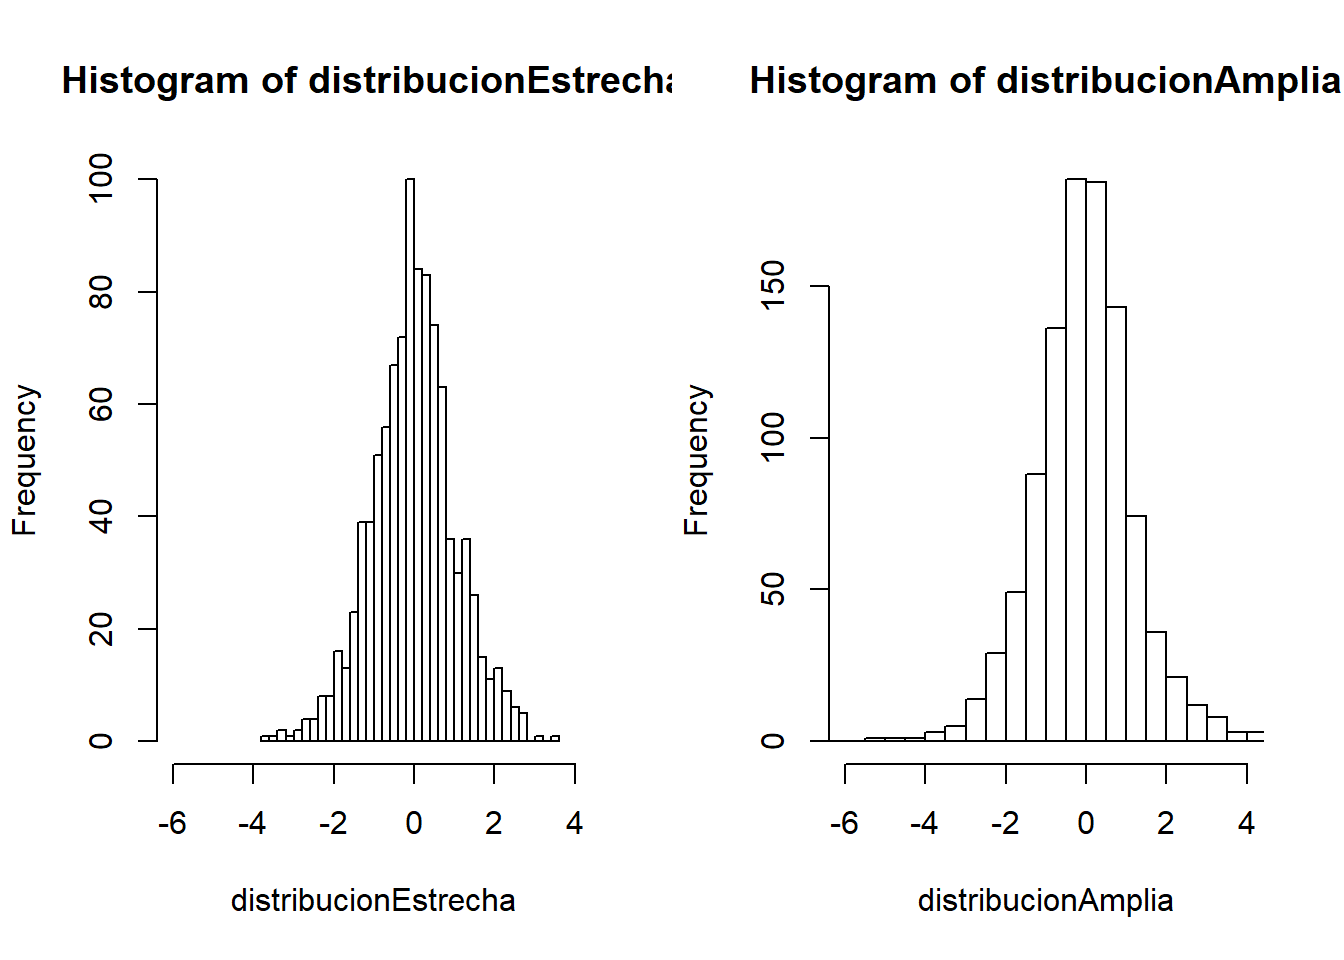
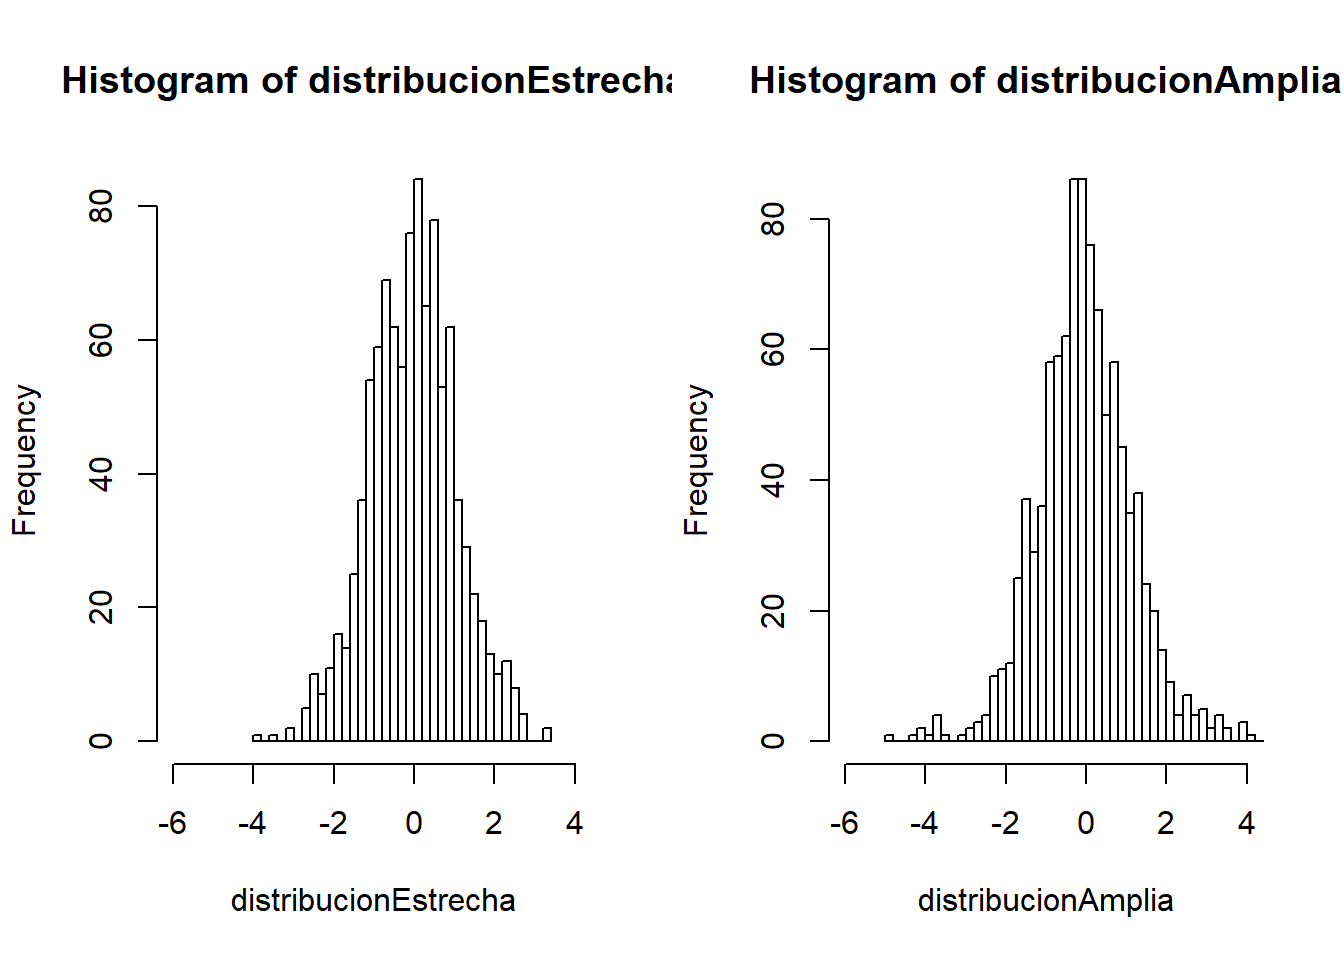
correccion imagenes

diff --git a/content/post/2019-11-02-la-distribucion-t-de-student.html b/content/post/2019-11-02-la-distribucion-t-de-student.html
@@ -54,7 +54,7 @@ tags:
 <h2>Que apariencia tiene la distribucion <em>t</em>?</h2>
 <p>La distribucion <em>t</em> se parece a la distribucion z en que ambas son simetricas alrededor de una media de cero. Ambas distribuciones tienen forma de campana, pero la distribucion <em>t</em> es mas variable, debido al hecho de que los valores <em>t</em> dependen de las fluctuaciones de dos cantidades <span class="math inline">\(\bar{X}\)</span> y <span class="math inline">\(\varsigma^{2}\)</span> miestran que los valores z dependen solo de los cambios en <span class="math inline">\(\bar{X}\)</span> de una muestra a otra. La distribucion <em>t</em> difiere de la z en la que la varianza de <em>t</em> depende del tamaño de la muestra n y siempre es mayor que 1, solo cuando el tamaño de la muestra <span class="math inline">\(n \rightarrow \infty\)</span> las dos distribuciones seran iguales.</p>
 <p>En la figura 8.8 se presenta la relacion entre una distribucion normal estandar (<span class="math inline">\(v = \infty\)</span>) y las distribuciones <em>t</em> con 2 y 5 grados de libertad</p>
-<p><img src="imagenes/7.png" /></p>
+<p><img src="./img/7.png" /></p>
 <p>El valor <em>t</em> por arriba del cual se encuentra un area igual a <span class="math inline">\(\alpha\)</span> por lo general se representa con <span class="math inline">\(t_{\alpha}\)</span>. Por consiguiente, el valor <em>t</em> con 10 grados de libertad que deja un area de 0.025 a la derecha es <span class="math inline">\(t = 2.228\)</span></p>
 <p>Con R ontenemos ese valor con la funcion <code>qt()</code>, la cual describiremos mas abajo</p>
 <pre class="r"><code>qt(0.025,10, lower.tail = F)</code></pre>
@@ -96,7 +96,7 @@ tags:
 <p>Vemos en rojo la distribucion normal y en azul la distribucion de la <em>t</em> de Student con 3 grados de libertad.</p>
 <p>Si comparamos la tabla de la distribucion normal con la tabla de <em>t</em> de Student vamos a encontrar algunas diferencias, por ejemplo, en la distribucion normal se utilizan los valores de z y el area, mientras que en la distribucion de la <em>t</em> de Student vamos a utilizar los grados de libertad, los grados de libertad estan representados por la letra griega <span class="math inline">\(\nu\)</span> (nu), ademas, en la distribucion de la <em>t</em> de Student utilizamos el percentil, que en este caso esta representado en la tabla por el numero en subindice al lado de <em>t</em>.</p>
 <p>Cuando decimos grados de libertad nos referimos al numero de datos independientes que podemos tomar de la poblacion para conformar la muestra, los grados de libertad se calculan restandole 1 a n (n - 1), <span class="math inline">\(\nu = n - 1\)</span>, para calcular en la tabla <em>t</em> el valor critico o teorico de <em>t</em> debemos interceptar los grados de libertad con el percentil.</p>
-<p><img src="./imagenes/5.png" /></p>
+<p><img src="./img/5.png" /></p>
 <p>Las principales aplicaciones de la distribucion de la <em>t</em> de Student estan en el campo de la medicina, biologia y agricultura, precisamente de donde nacio, pero tambien la podemos aplicar en el campo de la educacion, por ejemplo, si quisieramos comparar el coeficiente intelectual de un grupo pequeño de estudiantes.</p>
 <p>Si has trabajado con teoria de la desicion, ya sabes que existen 3 tiposd de ensayos:</p>
 <ol style="list-style-type: decimal">
@@ -226,14 +226,14 @@ pt(-0.785, 14, lower.tail = FALSE)</code></pre>
 <pre class="r"><code>qt(0.90, df = 20)</code></pre>
 <pre><code>## [1] 1.325341</code></pre>
 <p>Tenga en cuenta que los <strong>valores criticos</strong> encontrados por <strong>qt</strong> coincidiran con los valores criticos encontrados en la tabla de distribucion <em>t</em></p>
-<p><img src="imagenes/8.png" /></p>
+<p><img src="./img/8.png" /></p>
 <p><strong>rt()</strong></p>
 <p>La funcion <code>rt()</code> genera un vector de variables aleatorias que siguen una distribucion de <em>t</em> de Student dada una longitud de vector <code>n</code> y grados de libertad <code>df</code>, la sintaxis es la siguiente: <code>rt(n, df)</code></p>
 <pre class="r"><code># genera un vector de 5 variables aleatorias
 # que siguen una distribucion t de Student
 # con 20 grados de libertad
 rt(n = 5, df = 20)</code></pre>
-<pre><code>## [1]  1.0310462 -1.6370774  0.9242782  1.6036274 -0.7311559</code></pre>
+<pre><code>## [1] -1.1114928  0.5227331  0.7548892 -0.3285865  0.9626289</code></pre>
 <pre class="r"><code># genera un vector de 1000 variables aleatorias
 # que siguen una distribucion t de Student
 # con 40 grados de libertad

diff --git a/public/2019/11/02/la-distribucion-t-de-student/index.html b/public/2019/11/02/la-distribucion-t-de-student/index.html
@@ -120,7 +120,7 @@
 <h2>Que apariencia tiene la distribucion <em>t</em>?</h2>
 <p>La distribucion <em>t</em> se parece a la distribucion z en que ambas son simetricas alrededor de una media de cero. Ambas distribuciones tienen forma de campana, pero la distribucion <em>t</em> es mas variable, debido al hecho de que los valores <em>t</em> dependen de las fluctuaciones de dos cantidades <span class="math inline">\(\bar{X}\)</span> y <span class="math inline">\(\varsigma^{2}\)</span> miestran que los valores z dependen solo de los cambios en <span class="math inline">\(\bar{X}\)</span> de una muestra a otra. La distribucion <em>t</em> difiere de la z en la que la varianza de <em>t</em> depende del tamaño de la muestra n y siempre es mayor que 1, solo cuando el tamaño de la muestra <span class="math inline">\(n \rightarrow \infty\)</span> las dos distribuciones seran iguales.</p>
 <p>En la figura 8.8 se presenta la relacion entre una distribucion normal estandar (<span class="math inline">\(v = \infty\)</span>) y las distribuciones <em>t</em> con 2 y 5 grados de libertad</p>
-<p><img src="imagenes/7.png" /></p>
+<p><img src="./img/7.png" /></p>
 <p>El valor <em>t</em> por arriba del cual se encuentra un area igual a <span class="math inline">\(\alpha\)</span> por lo general se representa con <span class="math inline">\(t_{\alpha}\)</span>. Por consiguiente, el valor <em>t</em> con 10 grados de libertad que deja un area de 0.025 a la derecha es <span class="math inline">\(t = 2.228\)</span></p>
 <p>Con R ontenemos ese valor con la funcion <code>qt()</code>, la cual describiremos mas abajo</p>
 <pre class="r"><code>qt(0.025,10, lower.tail = F)</code></pre>
@@ -162,7 +162,7 @@
 <p>Vemos en rojo la distribucion normal y en azul la distribucion de la <em>t</em> de Student con 3 grados de libertad.</p>
 <p>Si comparamos la tabla de la distribucion normal con la tabla de <em>t</em> de Student vamos a encontrar algunas diferencias, por ejemplo, en la distribucion normal se utilizan los valores de z y el area, mientras que en la distribucion de la <em>t</em> de Student vamos a utilizar los grados de libertad, los grados de libertad estan representados por la letra griega <span class="math inline">\(\nu\)</span> (nu), ademas, en la distribucion de la <em>t</em> de Student utilizamos el percentil, que en este caso esta representado en la tabla por el numero en subindice al lado de <em>t</em>.</p>
 <p>Cuando decimos grados de libertad nos referimos al numero de datos independientes que podemos tomar de la poblacion para conformar la muestra, los grados de libertad se calculan restandole 1 a n (n - 1), <span class="math inline">\(\nu = n - 1\)</span>, para calcular en la tabla <em>t</em> el valor critico o teorico de <em>t</em> debemos interceptar los grados de libertad con el percentil.</p>
-<p><img src="./imagenes/5.png" /></p>
+<p><img src="./img/5.png" /></p>
 <p>Las principales aplicaciones de la distribucion de la <em>t</em> de Student estan en el campo de la medicina, biologia y agricultura, precisamente de donde nacio, pero tambien la podemos aplicar en el campo de la educacion, por ejemplo, si quisieramos comparar el coeficiente intelectual de un grupo pequeño de estudiantes.</p>
 <p>Si has trabajado con teoria de la desicion, ya sabes que existen 3 tiposd de ensayos:</p>
 <ol style="list-style-type: decimal">
@@ -292,14 +292,14 @@ pt(-0.785, 14, lower.tail = FALSE)</code></pre>
 <pre class="r"><code>qt(0.90, df = 20)</code></pre>
 <pre><code>## [1] 1.325341</code></pre>
 <p>Tenga en cuenta que los <strong>valores criticos</strong> encontrados por <strong>qt</strong> coincidiran con los valores criticos encontrados en la tabla de distribucion <em>t</em></p>
-<p><img src="imagenes/8.png" /></p>
+<p><img src="./img/8.png" /></p>
 <p><strong>rt()</strong></p>
 <p>La funcion <code>rt()</code> genera un vector de variables aleatorias que siguen una distribucion de <em>t</em> de Student dada una longitud de vector <code>n</code> y grados de libertad <code>df</code>, la sintaxis es la siguiente: <code>rt(n, df)</code></p>
 <pre class="r"><code># genera un vector de 5 variables aleatorias
 # que siguen una distribucion t de Student
 # con 20 grados de libertad
 rt(n = 5, df = 20)</code></pre>
-<pre><code>## [1]  1.0310462 -1.6370774  0.9242782  1.6036274 -0.7311559</code></pre>
+<pre><code>## [1] -1.1114928  0.5227331  0.7548892 -0.3285865  0.9626289</code></pre>
 <pre class="r"><code># genera un vector de 1000 variables aleatorias
 # que siguen una distribucion t de Student
 # con 40 grados de libertad
